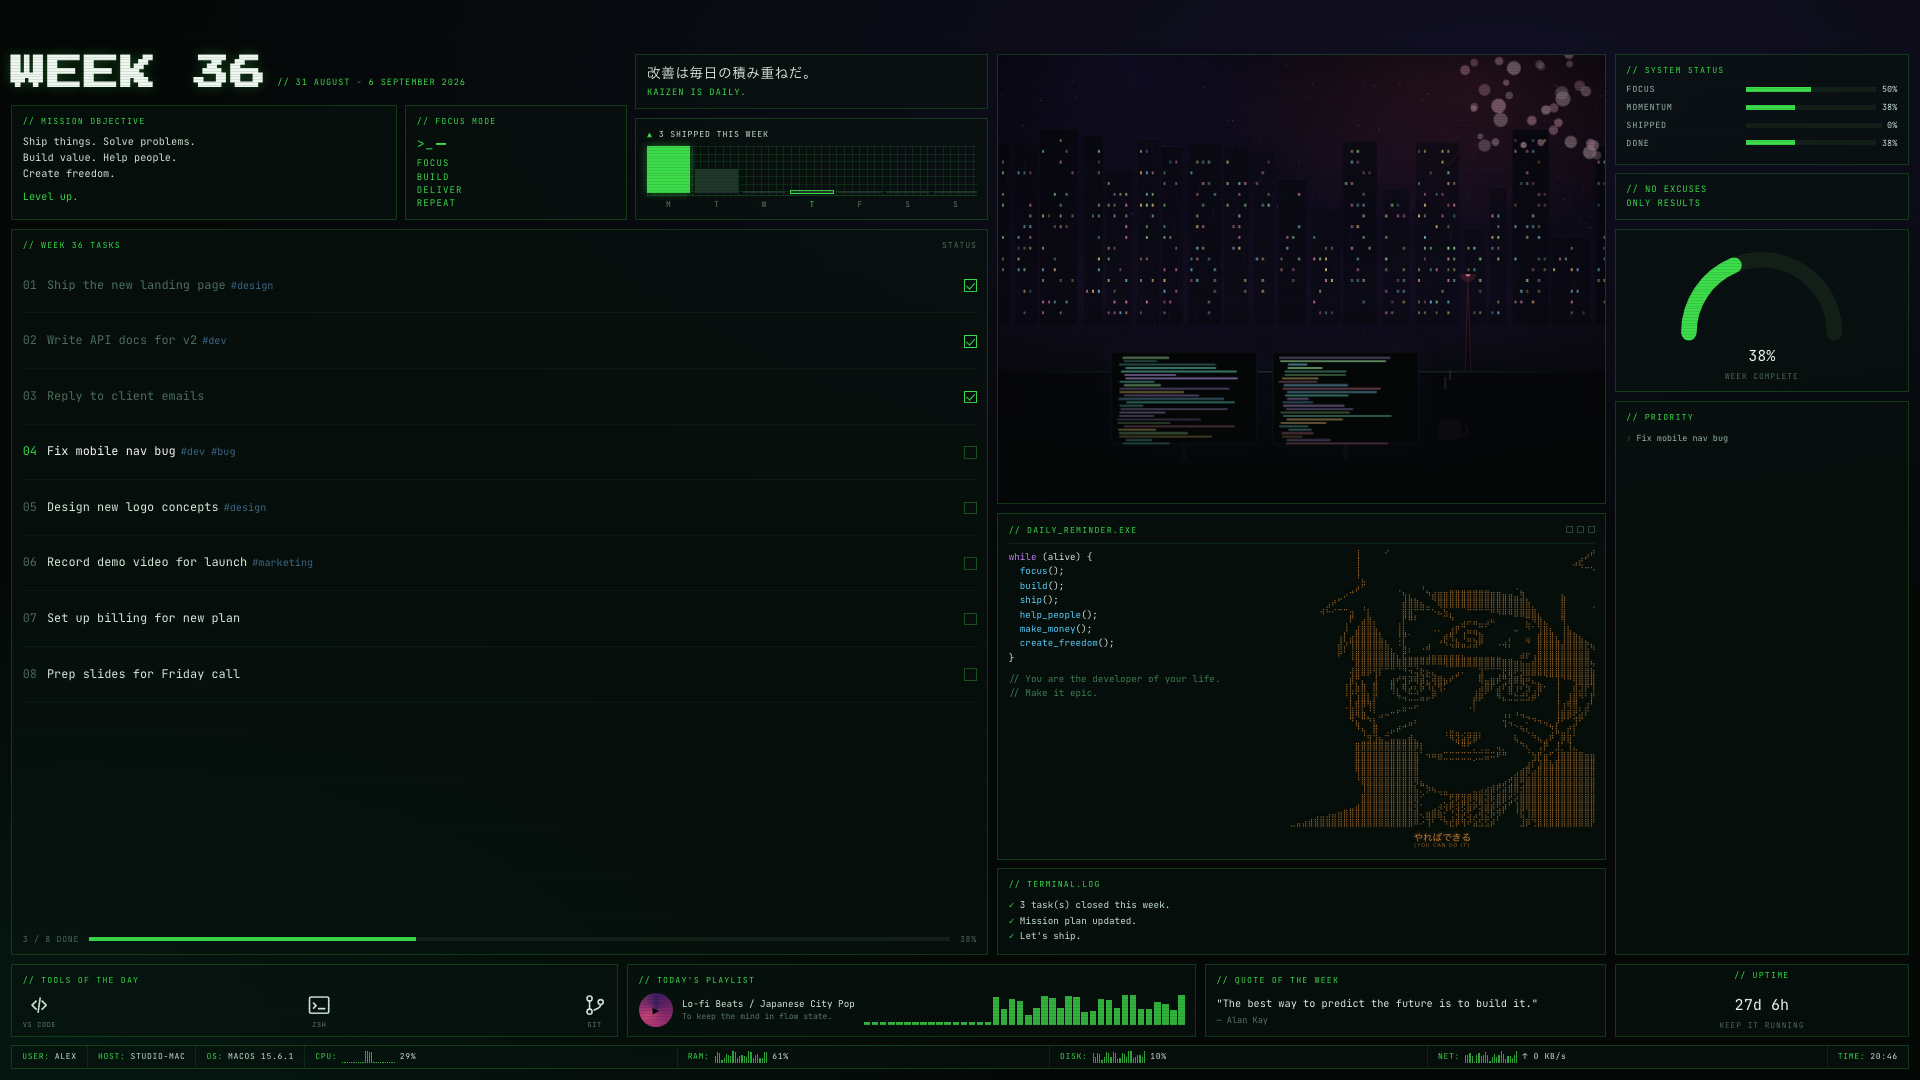
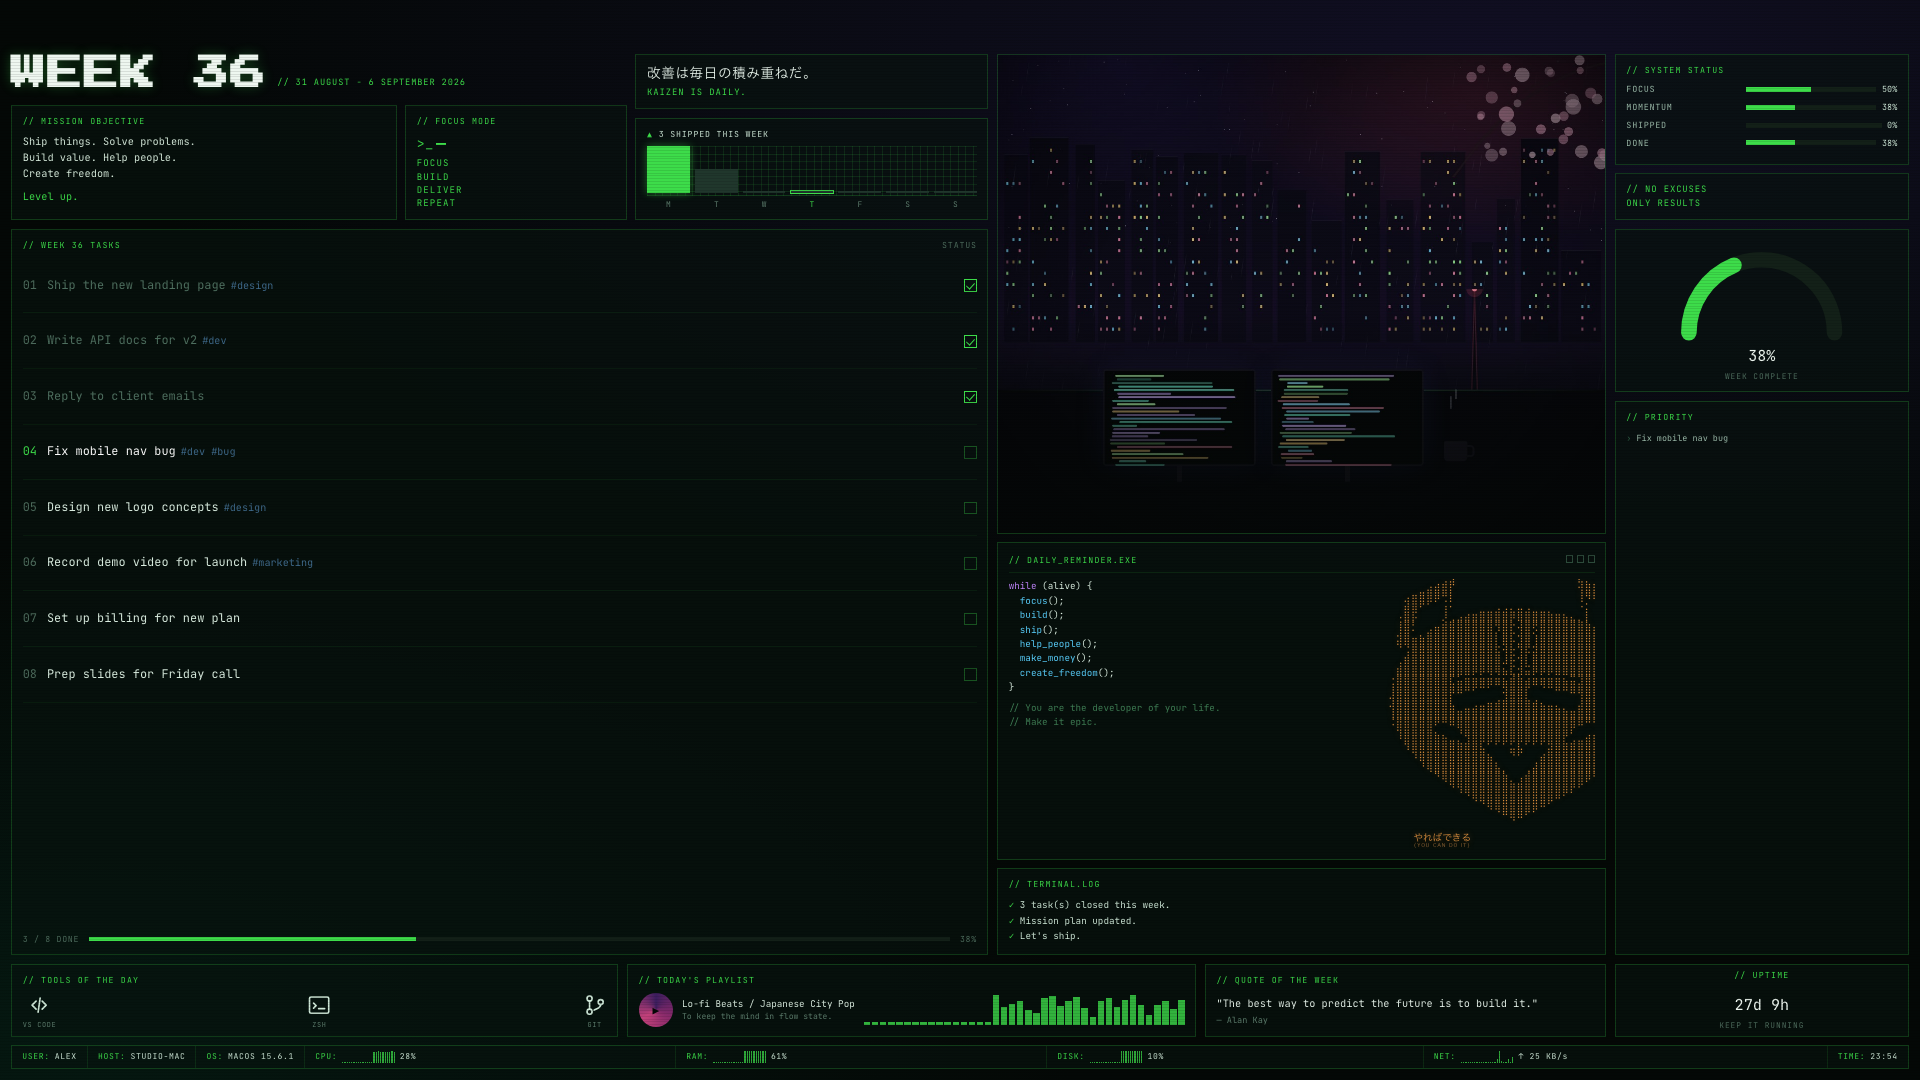
Add the kitsune/shuriken ascii art and repoint docs/CHEATSHEET at them
Follows the previous commit (ninja-a.txt/ninja-b.txt removal) - that
commit's git add failed partway on the already-staged deletions and only
the removals went through. This is the rest of it: the new default
ascii.txt, the two new gallery pieces, regenerated docs/screenshot.png and
docs/demo.gif (both still had the old default baked into the
DAILY_REMINDER.EXE panel), and the README/CHEATSHEET references updated
from ninja-a/ninja-b to kitsune/shuriken.

diff --git a/CHEATSHEET.md b/CHEATSHEET.md
@@ -87,7 +87,7 @@ What's adjustable, and how, panel by panel:
 | Tools of the day | `"tools"` in `wb config --edit` — up to 7 names from the built-in icon set (`VS CODE`, `ZSH`, `GIT`, `NOTION`, `DOCKER`, `FIGMA`, `COFFEE`, `CLAUDE`, `SLACK`, `PYTHON`, `LINEAR`, `MUSIC`, `DESIGN`, `SHIP`, `CURSOR`, `CHROME`, `GITHUB`) — anything else renders a plain diamond |
 | Playlist | `wb flavor` (re-picked to fit the week's mood), or `wb ai "set the playlist to ..."` — always fictional flavour text, never a real artist/song |
 | System Status gauges | computed automatically; pin one with `wb status focus 90`, back to auto with `wb status focus auto` |
-| Accent color / artwork / ASCII character | `"accent"` (hex) in config; `wb ascii --use ninja-b` or `wb ascii yourphoto.jpg`; `wb art yourphoto.jpg` or `wb art --generate "..."` for the background photo |
+| Accent color / artwork / ASCII character | `"accent"` (hex) in config; `wb ascii --use shuriken` or `wb ascii yourphoto.jpg`; `wb art yourphoto.jpg` or `wb art --generate "..."` for the background photo |
 
 Not yet configurable — hardcoded in `render.py` / the template, but a quick
 add if wanted: the **Focus Mode** word loop (`FOCUS / BUILD / DELIVER /

diff --git a/README.md b/README.md
@@ -311,8 +311,8 @@ Three pieces ship with it:
 
 ```bash
 wb ascii --list                 # what's in the gallery
-wb ascii --use ninja-a          # the detailed braille one (default)
-wb ascii --use ninja-b
+wb ascii --use kitsune          # braille fox mask (default)
+wb ascii --use shuriken         # braille ninja star
 wb ascii --use ninja-line       # the hand-drawn character version
 ```
 
